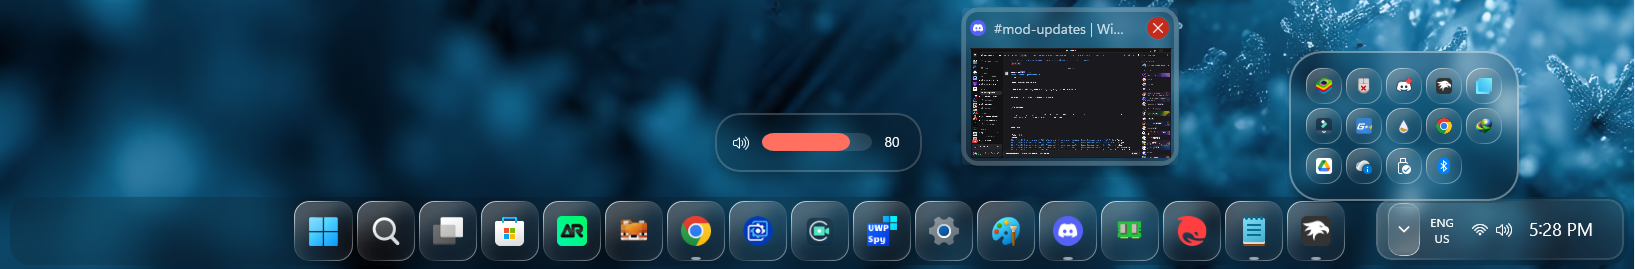
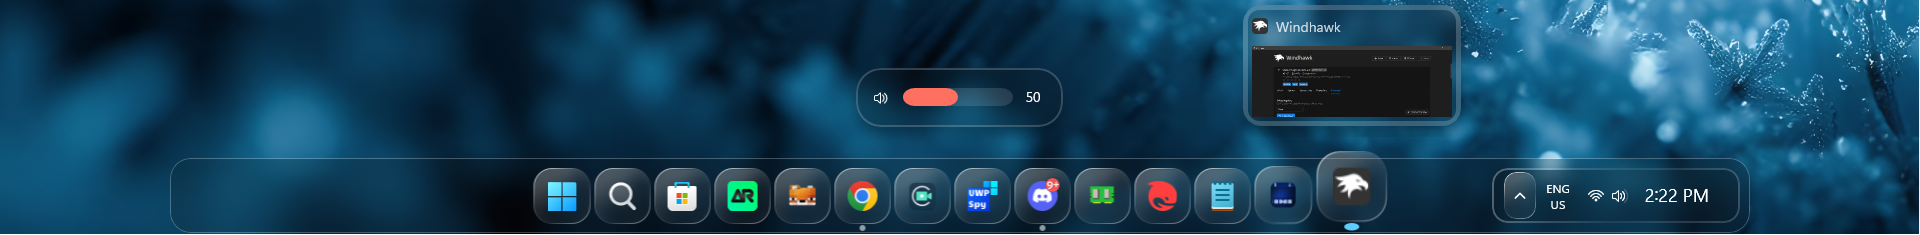
UPDATE TASKBAR STYLE WITH 2 Variants

diff --git a/Themes/OS26 Liquid Glass/README.md b/Themes/OS26 Liquid Glass/README.md
@@ -47,16 +47,6 @@ Preview:
 ![Large-Preview](large-taskbar.png)
 
 
-## **Medium:** 
-`{"TaskbarHeight":80,"IconSize":30,"TaskbarButtonWidth":55,"IconSizeSmall":16,"TaskbarButtonWidthSmall":32}`
-
-Preview:
-### MacDock
-![Medium-dock-Preview](medium-dock.png)
-### Taskbar
-![Medium-taskbar-Preview](medium-taskbar.png)
-
-
 ## **Small:** 
 `{"TaskbarHeight":75,"IconSize":25,"TaskbarButtonWidth":48,"IconSizeSmall":16,"TaskbarButtonWidthSmall":32}`
 
@@ -67,46 +57,7 @@ Preview:
 ![Small-Preview](small-taskbar.png)
 
 
----
 
-# Full Sized Taskbar 
-
-The OS26 Liquid Glass (Taskbar) can be set to full Horizontal Length by Altering these Targets:
-
-<details>
-<summary>Target 1: (click to expand)</summary>
-  
-```yaml
-  - target: Taskbar.TaskbarFrame > Grid#RootGrid
-    styles:
-      - RequestedTheme=Dark
-      - Background:=<WindhawkBlur BlurAmount="8" TintColor="#2D101010"/>
-      - Margin=5,1,5,4
-      - CornerRadius=20
-      - BorderThickness=1.2
-      - Padding=10,0
-```
-
-</details>
-
-<details>
-<summary>Target 2: (click to expand)</summary>
-
-```yaml
-  - target: Grid#SystemTrayFrameGrid
-    styles:
-      - Background:=$IconBackground
-      - CornerRadius=15
-      - Margin=150,6,-425,8
-      - RenderTransform:=<TranslateTransform X="-435" Y="-2"/>
-      - Padding=10,2
-      - BorderBrush:=<LinearGradientBrush EndPoint="1,1" StartPoint="0,0"><GradientStop Color="#50ffffff" Offset="0.0"/><GradientStop Color="#10ffffff" Offset="0.5"/><GradientStop Color="#30ffffff" Offset="1.0"/></LinearGradientBrush>
-      - BorderThickness=2
-```
-
-</details>
-
----
 
 # Theme selection
 
@@ -125,7 +76,7 @@ The theme styles can also be imported manually. To do that, follow these steps:
 * Copy the content below to the text box and click "Save settings".
 
 ## OS26 Liquid Glass (MacDock) Configuration
-
+![preview-dock](screenshot-dock-1.png)
 <details>
 <summary>Content to import (click to expand)</summary>
 
@@ -199,7 +150,7 @@ controlStyles:
       - Width=Auto
       - Background:=<WindhawkBlur BlurAmount="8" TintColor="#2D101010"/>
       - CornerRadius=15
-      - Margin=195,18,-450,10
+      - Margin=195,15,-450,5
       - RenderTransform:=<TranslateTransform X="-435" Y="-2"/>
       - Padding=10,2
       - BorderBrush:=<LinearGradientBrush EndPoint="1,1" StartPoint="0,0"><GradientStop Color="#50ffffff" Offset="0.0"/><GradientStop Color="#10ffffff" Offset="0.5"/><GradientStop Color="#30ffffff" Offset="1.0"/></LinearGradientBrush>
@@ -397,7 +348,7 @@ xamlDiagnosticsHandling: ''
 </details>
 
 ## OS26 Liquid Glass (Taskbar, Island) Configuration
-
+![preview-taskbar-island](screenshot-taskbar-island.png)
 <details>
 <summary>Content to import (click to expand)</summary>
 
@@ -467,7 +418,7 @@ controlStyles:
       - Width=Auto
       - Background:=<WindhawkBlur BlurAmount="8" TintColor="#2D101010"/>
       - CornerRadius=15
-      - Margin=80,20,-255,10
+      - Margin=80,15,-255,5
       - RenderTransform:=<TranslateTransform X="-435" Y="-2"/>
       - Padding=10,2
       - BorderBrush:=<LinearGradientBrush EndPoint="1,1" StartPoint="0,0"><GradientStop Color="#50ffffff" Offset="0.0"/><GradientStop Color="#10ffffff" Offset="0.5"/><GradientStop Color="#30ffffff" Offset="1.0"/></LinearGradientBrush>
@@ -661,6 +612,275 @@ themeResourceVariables:
   - ''
 xamlDiagnosticsHandling: ''
 
+
+```
+</details>
+
+
+## OS26 Liquid Glass (Taskbar, Full Width) Configuration
+![Preview-taskbar-full](screenshot-taskbar-full.png)
+<details>
+<summary>Content to import (click to expand)</summary>
+
+```yaml
+theme: ''
+styleConstants:
+  - IconBackground= <ImageBrush ImageSource="https://raw.githubusercontent.com/ramensoftware/windows-11-taskbar-styling-guide/refs/heads/main/Themes/OS26 Liquid Glass/Assets/tahoeappbg.png" Stretch="UniformtoFill"/>
+  - IconBorder= <LinearGradientBrush EndPoint="1,1" StartPoint="0,0"><GradientStop Color="#F5ffffff" Offset="0.0"/><GradientStop Color="#40ffffff" Offset="0.4"/><GradientStop Color="#20ffffff" Offset="0.6"/><GradientStop Color="#90ffffff" Offset="1.0"/></LinearGradientBrush>
+controlStyles:
+  - target: Grid#RootGrid > Taskbar.TaskbarBackground > Grid
+    styles:
+      - CornerRadius=20
+      - Background:=<WindhawkBlur BlurAmount="8" TintColor="#2D101010"/>
+      - BorderThickness=1
+      - Margin=-15,0,-15,0
+      - BorderBrush=#40FFFFFF
+      - Padding=-1
+  - target: Rectangle#BackgroundStroke
+    styles:
+      - Fill=Transparent
+  - target: Taskbar.TaskbarFrame > Grid#RootGrid
+    styles:
+      - Visibility=Visible
+      - Margin=0,8,0,2
+      - Padding=20,0,20,0
+  - target: Taskbar.TaskbarFrame > Grid#RootGrid > Taskbar.TaskbarBackground > Grid >
+    styles:
+      - ''
+  - target: Windows.UI.Xaml.Controls.FlyoutPresenter
+    styles:
+      - RequestedTheme=Dark
+      - Background:=<WindhawkBlur BlurAmount="8" TintColor="#2D101010"/>
+      - BorderThickness=2
+      - BorderBrush:=<WindhawkBlur BlurAmount="8" TintColor="#30ffffff"/>
+      - CornerRadius=33
+      - Padding=2,3,2,3
+  - target: Windows.UI.Xaml.Controls.Border#SnapPickerBorder
+    styles:
+      - RequestedTheme=Dark
+      - Background:=Transparent
+      - BorderBrush:=Transparent
+      - BorderThickness=2
+      - Margin=0
+  - target: WindowsInternal.ComposableShell.Experiences.Switcher.AltTab > Grid#ModalRootGrid > Border#BackgroundElement
+    styles:
+      - Background:=<WindhawkBlur BlurAmount="8" TintColor="#2D101010"/>
+      - BorderThickness=2
+      - BorderBrush:=<WindhawkBlur BlurAmount="8" TintColor="#30ffffff"/>
+      - CornerRadius=50
+  - target: MenuFlyoutPresenter
+    styles:
+      - CornerRadius=20
+  - target: MenuFlyoutPresenter > Border
+    styles:
+      - Background:=<WindhawkBlur BlurAmount="8" TintColor="#2D101010"/>
+      - BorderThickness=2
+      - CornerRadius=25
+      - BorderBrush:=<WindhawkBlur BlurAmount="8" TintColor="#30ffffff"/>
+  - target: ScrollViewer > ScrollContentPresenter > Border > Grid > SystemTray.SystemTrayFrame > Grid#SystemTrayFrameGrid > SystemTray.Stack#NotifyIconStack > Grid#Content > SystemTray.StackListView#IconStack > ItemsPresenter > StackPanel > ContentPresenter > SystemTray.ChevronIconView > Grid#ContainerGrid > ContentPresenter#ContentPresenter > Grid#ContentGrid
+    styles:
+      - CornerRadius=12
+      - Background:=$IconBackground
+      - BorderBrush:=<LinearGradientBrush EndPoint="1,1" StartPoint="0,0"><GradientStop Color="#F5ffffff" Offset="0.0"/><GradientStop Color="#40ffffff" Offset="0.4"/><GradientStop Color="#20ffffff" Offset="0.6"/><GradientStop Color="#90ffffff" Offset="1.0"/></LinearGradientBrush>
+      - BorderThickness=1.2
+  - target: Grid#SystemTrayFrameGrid
+    styles:
+      - Width=Auto
+      - Background:=<WindhawkBlur BlurAmount="8" TintColor="#2D101010"/>
+      - CornerRadius=15
+      - Margin=200,15,-425,5
+      - RenderTransform:=<TranslateTransform X="-435" Y="-2"/>
+      - Padding=10,2
+      - BorderBrush:=<LinearGradientBrush EndPoint="1,1" StartPoint="0,0"><GradientStop Color="#50ffffff" Offset="0.0"/><GradientStop Color="#10ffffff" Offset="0.5"/><GradientStop Color="#30ffffff" Offset="1.0"/></LinearGradientBrush>
+      - BorderThickness=2
+      - Visibility=Visible
+  - target: Taskbar.TaskListButtonPanel@CommonStates > Border#BackgroundElement
+    styles:
+      - CornerRadius=18
+      - Margin=0,5.5,0,5.5
+      - Background:=$IconBackground
+      - BorderBrush:=$IconBorder
+      - BorderThickness=1.2
+  - target: Taskbar.TaskbarBackground#HoverFlyoutBackgroundControl > Grid > Rectangle#BackgroundFill
+    styles:
+      - Fill:=<WindhawkBlur BlurAmount="8" TintColor="#2D101010"/>
+      - Stroke:=<WindhawkBlur BlurAmount="8" TintColor="#30ffffff"/>
+      - StrokeThickness=5
+      - RadiusX=14
+      - RadiusY=14
+  - target: Taskbar.TaskbarBackground#HoverFlyoutBackgroundControl > Grid > Rectangle#BackgroundStroke
+    styles:
+      - Fill:=<WindhawkBlur BlurAmount="3.5" TintColor="#2D101010"/>
+      - Stroke:=<WindhawkBlur BlurAmount="8" TintColor="#30ffffff"/>
+      - StrokeThickness=5
+      - RadiusX=14
+      - RadiusY=14
+      - Fill:=<<WindhawkBlur BlurAmount="8" TintColor="#30ffffff"/>
+  - target: Border#HoverFlyoutBackground
+    styles:
+      - Background:=Transparent
+      - BorderThickness=0
+      - CornerRadius=18
+  - target: Windows.UI.Xaml.Controls.Button#CloseButton
+    styles:
+      - CornerRadius=20
+      - Width=24
+      - Height=24
+      - Margin=8
+      - Background:=<WindhawkBlur BlurAmount="15" TintColor="#50FFFFFF"/>
+  - target: SystemTray.NotifyIconView@CommonStates > Grid#ContainerGrid > Border#BackgroundBorder
+    styles:
+      - CornerRadius=12
+      - Background:=$IconBackground
+      - BorderBrush:=$IconBorder
+      - Margin=2
+      - BorderThickness=1.2
+  - target: Border#OverflowFlyoutBackgroundBorder
+    styles:
+      - Background:=<WindhawkBlur BlurAmount="8" TintColor="#2D101010"/>
+      - BorderBrush:=<WindhawkBlur BlurAmount="8" TintColor="#60ffffff"/>
+      - BorderThickness=2
+      - CornerRadius=32,32,30,30
+      - Margin=-10
+  - target: SystemTray.OmniButton#ControlCenterButton > Grid > ContentPresenter > ItemsPresenter > StackPanel > ContentPresenter > SystemTray.IconView#SystemTrayIcon > Grid > Grid > SystemTray.TextIconContent
+    styles:
+      - CornerRadius=15
+  - target: Taskbar.TaskListLabeledButtonPanel@RunningIndicatorStates > Rectangle#RunningIndicator
+    styles:
+      - Fill:=#90ffffff
+      - RadiusX=6
+      - RadiusY=6
+      - Margin=-2
+      - Height=6
+      - Width=6
+      - Width@ActiveRunningIndicator=12
+      - Fill@ActiveRunningIndicator=#60CDFF
+  - target: Taskbar.TaskListLabeledButtonPanel > TextBlock#LabelControl
+    styles:
+      - Margin=4,0,0,0
+      - Foreground=White
+  - target: Taskbar.SearchBoxButton
+    styles:
+      - Background:=<WindhawkBlur BlurAmount="60" TintColor="#35ffffff"/>
+      - CornerRadius=20
+      - Margin=2,6,2,6
+      - BorderBrush:=<LinearGradientBrush EndPoint="1,1" StartPoint="0,0"><GradientStop Color="#E0ffffff" Offset="0.0"/><GradientStop Color="#20ffffff" Offset="0.5"/><GradientStop Color="#A0ffffff" Offset="1.0"/></LinearGradientBrush>
+      - BorderThickness=1.2
+  - target: TextBlock#SearchBoxTextBlock
+    styles:
+      - FontSize=12
+      - Foreground=White
+  - target: Grid
+    styles:
+      - RequestedTheme=2
+  - target: Taskbar.TaskListButton#TaskListButton[AutomationProperties.Name=Copilot] > Taskbar.TaskListLabeledButtonPanel#IconPanel > Border#BackgroundElement
+    styles:
+      - Background:=$IconBackground
+  - target: Taskbar.StartButton#StartButton
+    styles:
+      - Background:=<WindhawkBlur BlurAmount="60" TintColor="#35ffffff"/>
+      - CornerRadius=20
+      - Margin=2,6,2,6
+      - BorderBrush:=<LinearGradientBrush EndPoint="1,1" StartPoint="0,0"><GradientStop Color="#E0ffffff" Offset="0.0"/><GradientStop Color="#20ffffff" Offset="0.5"/><GradientStop Color="#A0ffffff" Offset="1.0"/></LinearGradientBrush>
+      - BorderThickness=1.2
+  - target: Border#MultiWindowElement
+    styles:
+      - Visibility=Collapsed
+  - target: TextBlock#TimeInnerTextBlock
+    styles:
+      - Foreground=White
+      - FontSize=18
+      - FontFamily=Quantico
+      - Margin=0
+      - Padding=0
+      - RenderTransform:=<TranslateTransform X="0" Y="1"/>
+  - target: TextBlock#DateInnerTextBlock
+    styles:
+      - Foreground=White
+      - Visibility=Collapsed
+      - RenderTransform:=<TranslateTransform X="0" Y="-9"/>
+      - FontSize=11
+      - FontFamily=vivo Sans EN VF
+  - target: SystemTray.TextIconContent > Grid > SystemTray.AdaptiveTextBlock#Base > TextBlock
+    styles:
+      - Foreground=White
+  - target: Taskbar.AugmentedEntryPointButton#AugmentedEntryPointButton
+    styles:
+      - Margin=-12,0,0,0
+  - target: SearchUx.SearchUI.SearchButtonControl > Grid > SearchUx.SearchUI.SearchIconButton#SearchIcon > SearchUx.SearchUI.SearchButtonRootGrid#SearchBoxButtonRootPanel > Border#BackgroundElement
+    styles:
+      - Margin=0,5.5,0,5.5
+      - CornerRadius=18
+      - Background:=$IconBackground
+      - BorderBrush:=$IconBorder
+  - target: Taskbar.ExperienceToggleButton#LaunchListButton[AutomationProperties.Name=Task View]
+    styles:
+      - Background:=<WindhawkBlur BlurAmount="60" TintColor="#35ffffff"/>
+      - CornerRadius=20
+      - BorderBrush:=<LinearGradientBrush EndPoint="1,1" StartPoint="0,0"><GradientStop Color="#E0ffffff" Offset="0.0"/><GradientStop Color="#20ffffff" Offset="0.5"/><GradientStop Color="#A0ffffff" Offset="1.0"/></LinearGradientBrush>
+      - BorderThickness=1.2
+  - target: taskbar:TaskListLabeledButtonPanel@RunningIndicatorStates > Border
+    styles:
+      - Background@InactiveRunningIndicatorPointerOver:=<WindhawkBlur BlurAmount="40" TintColor="#10ffffff"/>
+      - CornerRadius=12
+      - BorderBrush@InactiveRunningIndicatorPointerOver:=<LinearGradientBrush EndPoint="1,0" StartPoint="0,0"><GradientStop Color="#80ffffff" Offset="0.0"/><GradientStop Color="{ThemeResource SurfaceStrokeColorDefault}" Offset="0.55"/><GradientStop Color="#80ffffff" Offset="1"/></LinearGradientBrush>
+      - BorderThickness@InactiveRunningIndicatorPointerOver=1
+  - target: Taskbar.TaskListLabeledButtonPanel@CommonStates > Border#BackgroundElement
+    styles:
+      - CornerRadius=18
+      - Margin=0,5.5,0,5.5
+      - Background:=$IconBackground
+      - BorderBrush:=$IconBorder
+      - BorderThickness=1.2
+  - target: Taskbar.TaskbarFrame > Grid#RootGrid > Taskbar.TaskbarBackground > Grid > Rectangle#BackgroundStroke
+    styles:
+      - Visibility=Collapsed
+  - target: Taskbar.TaskbarFrame > Grid#RootGrid > Taskbar.TaskbarBackground > Grid > Rectangle#BackgroundFill
+    styles:
+      - Fill=Transparent
+  - target: SystemTray.NotifyIconView#NotifyItemIcon
+    styles:
+      - Background:=<WindhawkBlur BlurAmount="10" TintColor="#40ffffff"/>
+      - CornerRadius=12
+      - Margin=2
+      - Padding=2
+      - BorderBrush:=<LinearGradientBrush EndPoint="1,0" StartPoint="0,0"><GradientStop Color="#80ffffff" Offset="0.0"/><GradientStop Color="{ThemeResource SurfaceStrokeColorDefault}" Offset="0.55"/><GradientStop Color="#80ffffff" Offset="1"/></LinearGradientBrush>
+      - BorderThickness=2
+  - target: Windows.UI.Xaml.Controls.Grid#ConfirmatorMainGrid
+    styles:
+      - Background:=<WindhawkBlur BlurAmount="8" TintColor="#2D101010"/>
+      - CornerRadius=24
+      - BorderBrush:=<WindhawkBlur BlurAmount="8" TintColor="#30ffffff"/>
+      - BorderThickness=2
+      - Margin=0,0,0,10
+  - target: Windows.UI.Xaml.Controls.Grid.Border#ConfirmatorMainGrid
+    styles:
+      - Background:=<WindhawkBlur BlurAmount="8" TintColor="#2D101010"/>
+  - target: Windows.UI.Xaml.Shapes.Rectangle#HorizontalTrackRect
+    styles:
+      - Fill=#20ffffff
+      - RadiusX=12
+      - RadiusY=12
+      - Height=18
+      - Margin=0
+  - target: Windows.UI.Xaml.Shapes.Rectangle#HorizontalDecreaseRect
+    styles:
+      - Fill=#ff7060
+      - RadiusX=12
+      - RadiusY=12
+      - Height=18
+  - target: Windows.UI.Xaml.Controls.Grid#VolumeConfirmator
+    styles:
+      - Padding=8,0,8,0
+  - target: Windows.UI.Xaml.Controls.Grid#BrightnessConfirmator
+    styles:
+      - Padding=8,0,8,0
+  - target: Windows.UI.Xaml.Controls.TextBlock#volumeLevelText
+    styles:
+      - Foreground=White
+themeResourceVariables:
+  - ''
+xamlDiagnosticsHandling: ''
 
 ```
 </details>